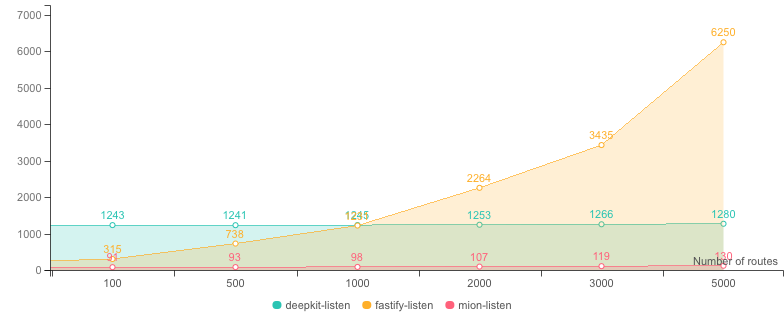
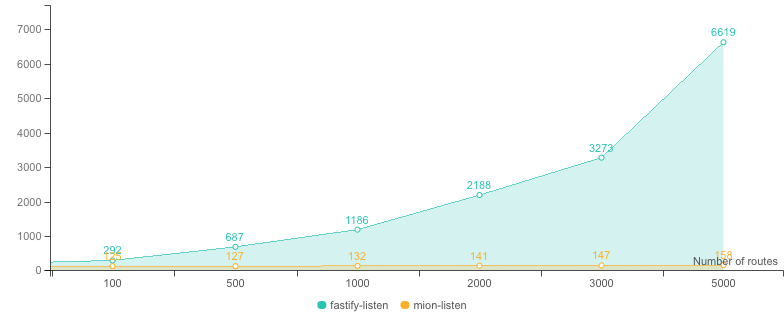
update latest metrics benchmarks

diff --git a/metrics/process-results.js b/metrics/process-results.js
@@ -129,7 +129,8 @@ async function getMarkdownChat(groupedResults, metricLabel, chartName) {
   // TODO this can be done dinamically so more packages can be added
   const columnsData = [
     // [`deepkit-startup`, ...startup(groupedResults.deepkit)],
-    [`deepkit-listen`, ...listen(groupedResults.deepkit)],
+    // TODO: uncomment once deepkit is fixed
+    //  [`deepkit-listen`, ...listen(groupedResults.deepkit)],
     // [`fastify-startup`, ...startup(groupedResults.fastify)],
     [`fastify-listen`, ...listen(groupedResults.fastify)],
     // [`mion-startup`, ...startup(groupedResults.mion)],

diff --git a/COLD-STARTS.md b/COLD-STARTS.md
@@ -12,8 +12,8 @@ We are comparing mion against fastify as we consider it to be the gold standard 
 
 ## Benchmark Results
 * __Machine:__ darwin x64 | 8 vCPUs | 16.0GB Mem
-* __Node:__ `v18.17.0`
-* __Run:__ Tue Jan 23 2024 22:42:57 GMT+0000 (Greenwich Mean Time)
+* __Node:__ `v20.11.0`
+* __Run:__ Sun Jan 28 2024 22:27:57 GMT+0000 (Greenwich Mean Time)
 * __Method:__ `npm run metrics` (samples: 5)
 * __startup:__ time elapsed to setup the application
 * __listen:__ time elapsed until the http server is ready to accept requests (cold start)
@@ -26,25 +26,18 @@ We are comparing mion against fastify as we consider it to be the gold standard 
 
   | | startup(ms) | listen(ms) |
   |-| -           | -          |
-| 10-startup-deepkit-routes.js | 1244 | 1246 |
-| 10-startup-fastify-routes.js | 147 | 215 |
-| 10-startup-mion-routes.js | 84 | 91 |
-| 100-startup-deepkit-routes.js | 1242 | 1243 |
-| 100-startup-fastify-routes.js | 160 | 315 |
-| 100-startup-mion-routes.js | 84 | 91 |
-| 500-startup-deepkit-routes.js | 1240 | 1241 |
-| 500-startup-fastify-routes.js | 234 | 738 |
-| 500-startup-mion-routes.js | 83 | 93 |
-| 1000-startup-deepkit-routes.js | 1244 | 1245 |
-| 1000-startup-fastify-routes.js | 337 | 1231 |
-| 1000-startup-mion-routes.js | 84 | 98 |
-| 2000-startup-deepkit-routes.js | 1251 | 1253 |
-| 2000-startup-fastify-routes.js | 544 | 2264 |
-| 2000-startup-mion-routes.js | 85 | 107 |
-| 3000-startup-deepkit-routes.js | 1265 | 1266 |
-| 3000-startup-fastify-routes.js | 826 | 3435 |
-| 3000-startup-mion-routes.js | 88 | 119 |
-| 5000-startup-deepkit-routes.js | 1279 | 1280 |
-| 5000-startup-fastify-routes.js | 1787 | 6250 |
-| 5000-startup-mion-routes.js | 87 | 130 |
-| startup-listen.js | 85 | 90 |
+| 10-startup-fastify-routes.js | 133 | 199 |
+| 10-startup-mion-routes.js | 118 | 123 |
+| 100-startup-fastify-routes.js | 143 | 292 |
+| 100-startup-mion-routes.js | 119 | 125 |
+| 500-startup-fastify-routes.js | 217 | 687 |
+| 500-startup-mion-routes.js | 119 | 127 |
+| 1000-startup-fastify-routes.js | 313 | 1186 |
+| 1000-startup-mion-routes.js | 119 | 132 |
+| 2000-startup-fastify-routes.js | 564 | 2188 |
+| 2000-startup-mion-routes.js | 119 | 141 |
+| 3000-startup-fastify-routes.js | 798 | 3273 |
+| 3000-startup-mion-routes.js | 120 | 147 |
+| 5000-startup-fastify-routes.js | 2255 | 6619 |
+| 5000-startup-mion-routes.js | 121 | 158 |
+| startup-listen.js | 119 | 123 |
